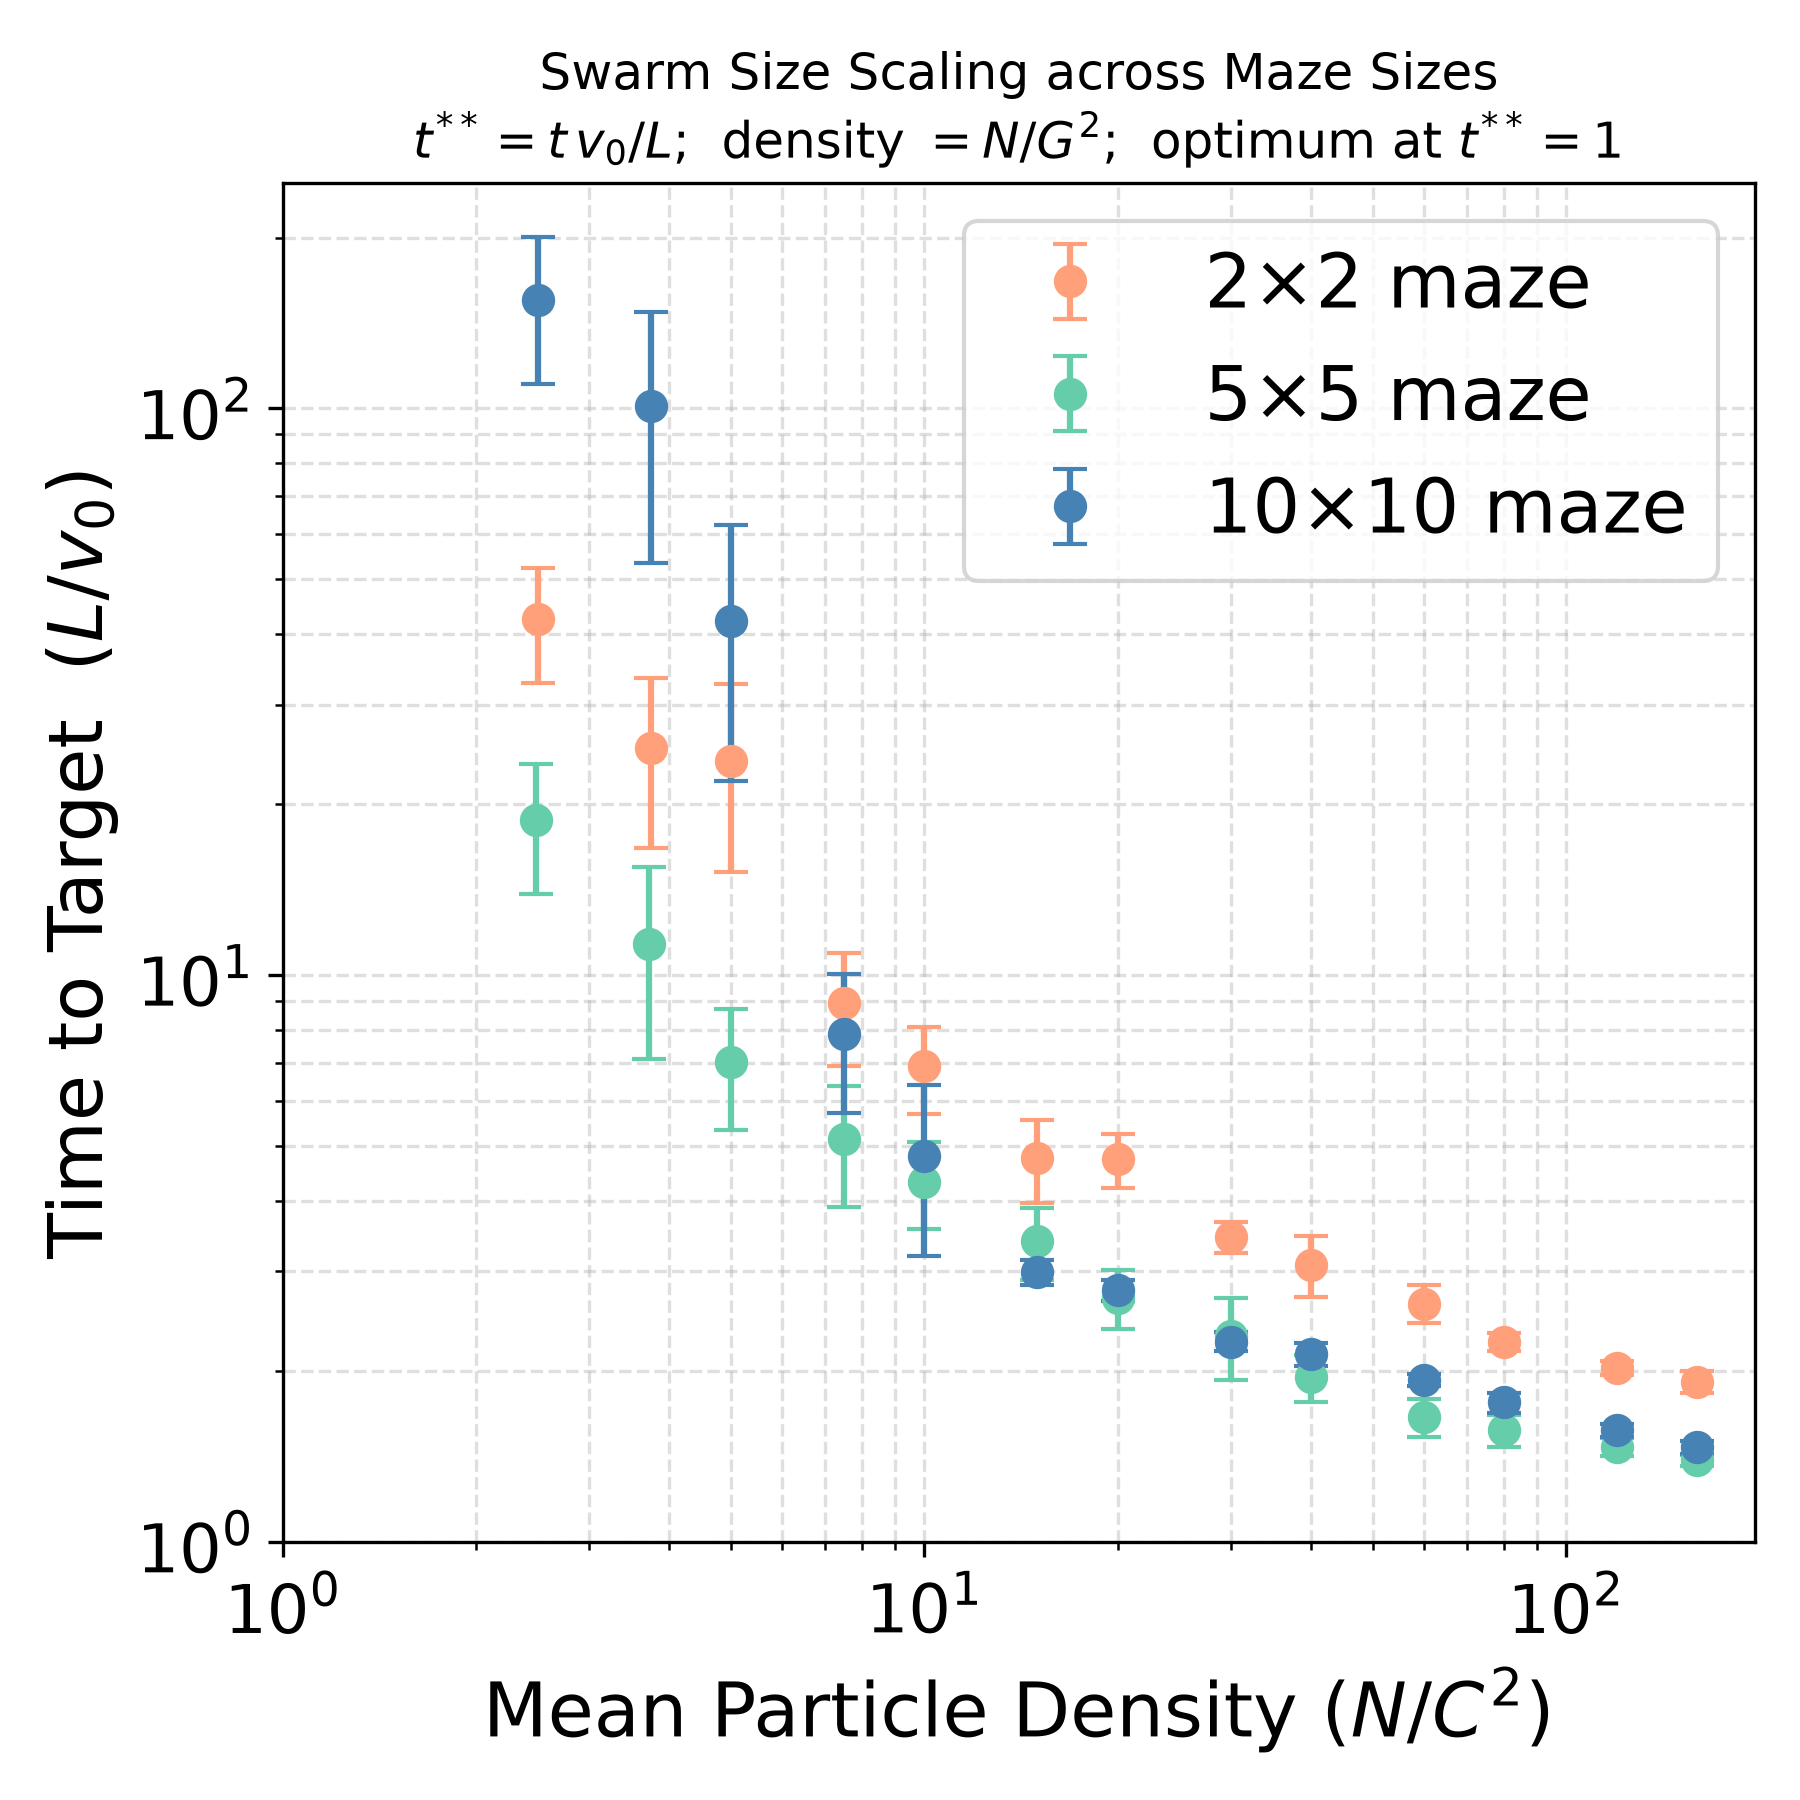
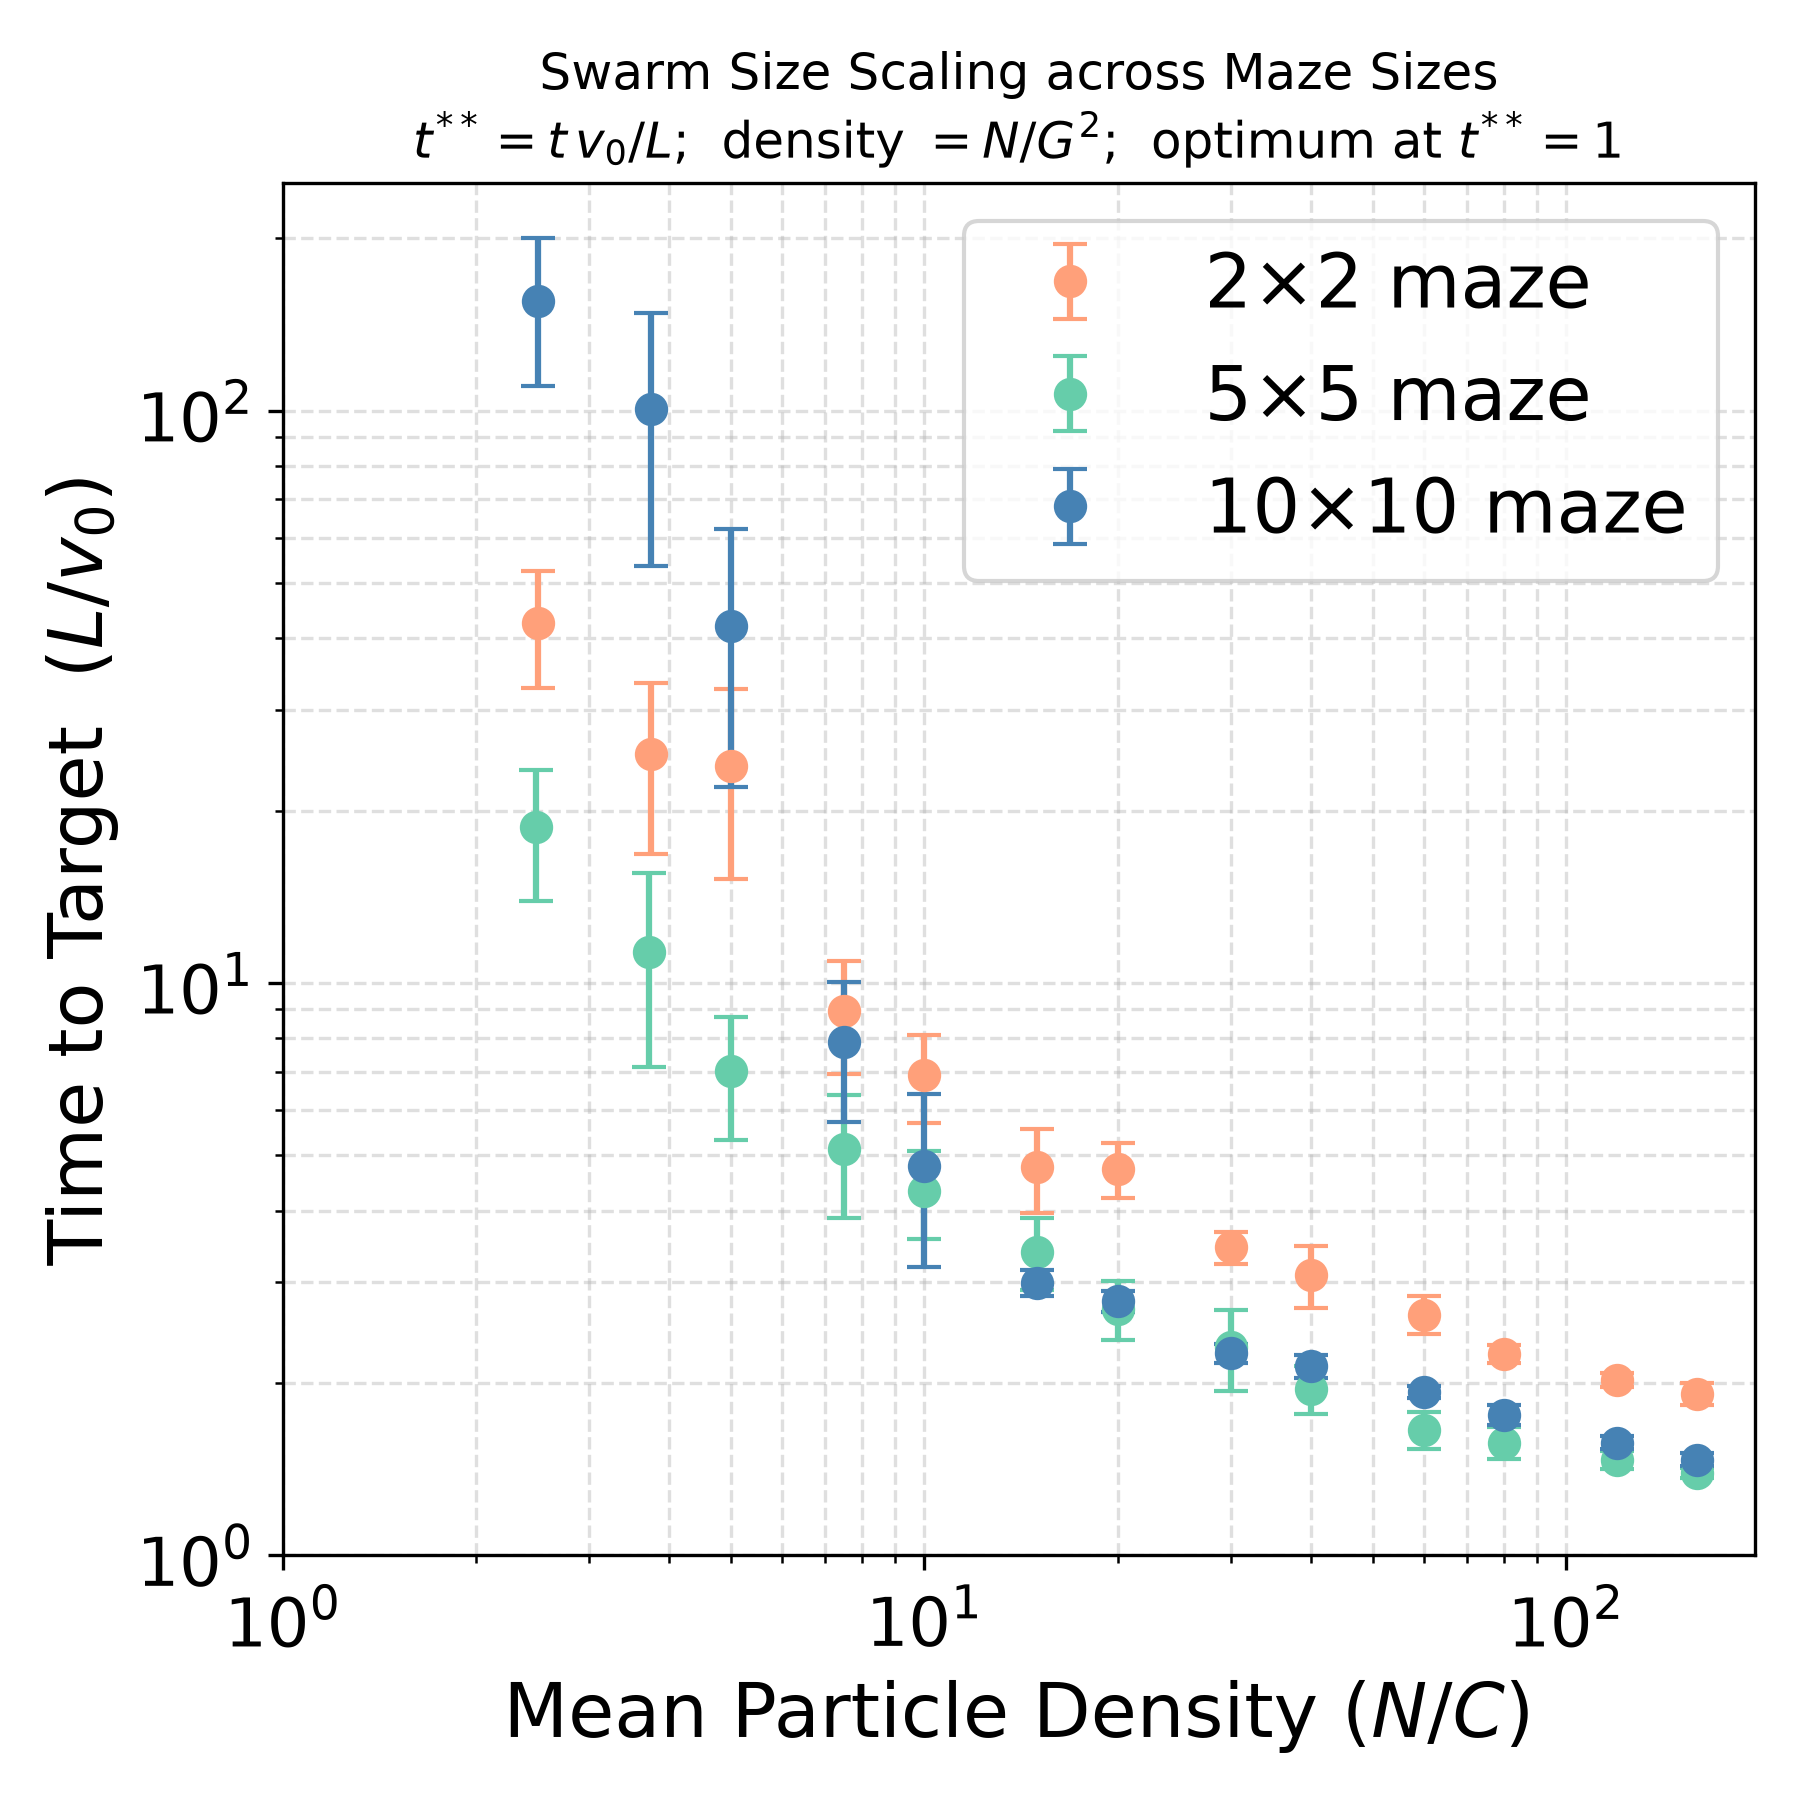
corrected x-label of fig5e

diff --git a/figures/fig5/e/plot_swarm_scaling.py b/figures/fig5/e/plot_swarm_scaling.py
@@ -230,7 +230,7 @@ def plot_combined():
     ax.set_ylim(1,2.5E2)
     ax.tick_params(axis='both', labelsize=16)
 
-    ax.set_xlabel(r'Mean Particle Density ($N/C^2$)',fontsize=18)
+    ax.set_xlabel(r'Mean Particle Density ($N/C$)',fontsize=18)
     ax.set_ylabel(r'Time to Target  ($L/v_0$)',fontsize=18)
     ax.set_title('Swarm Size Scaling across Maze Sizes\n'
                  r'$t^{**} = t\,v_0/L$;  density $= N/G^2$;  optimum at $t^{**}=1$')
